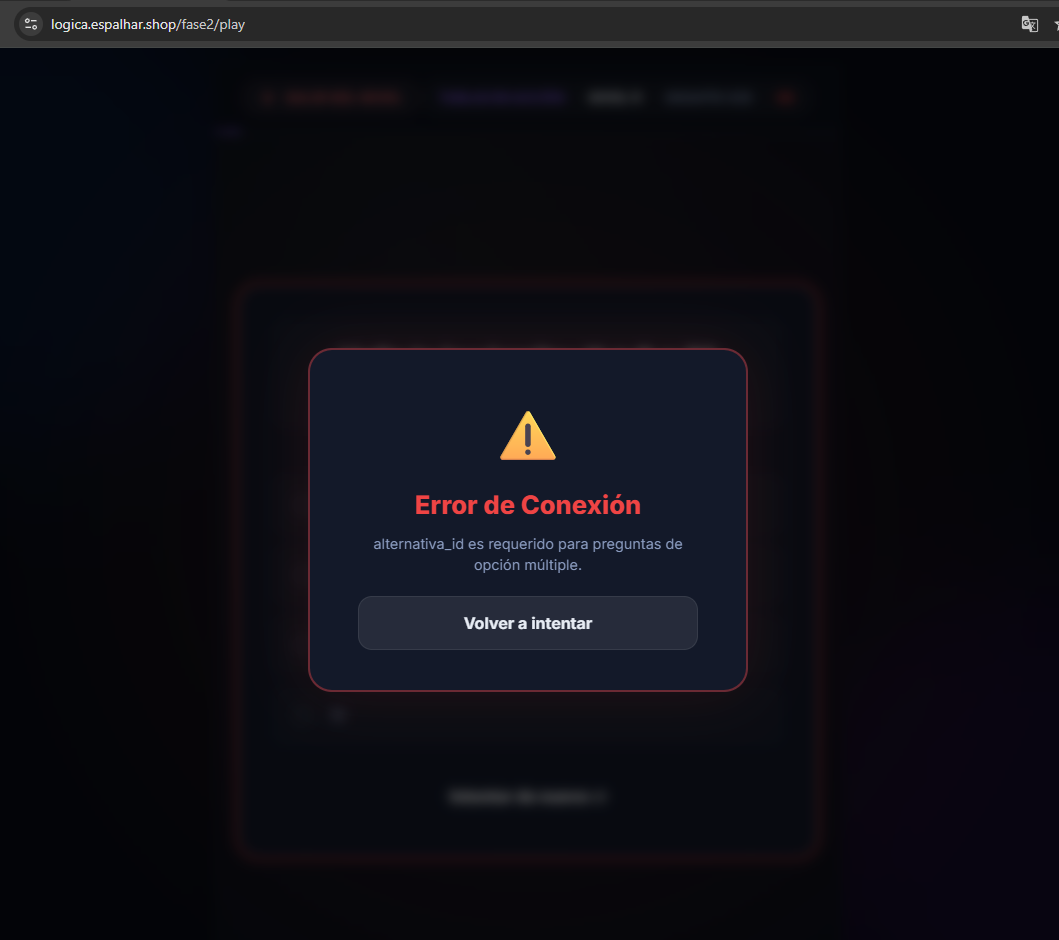
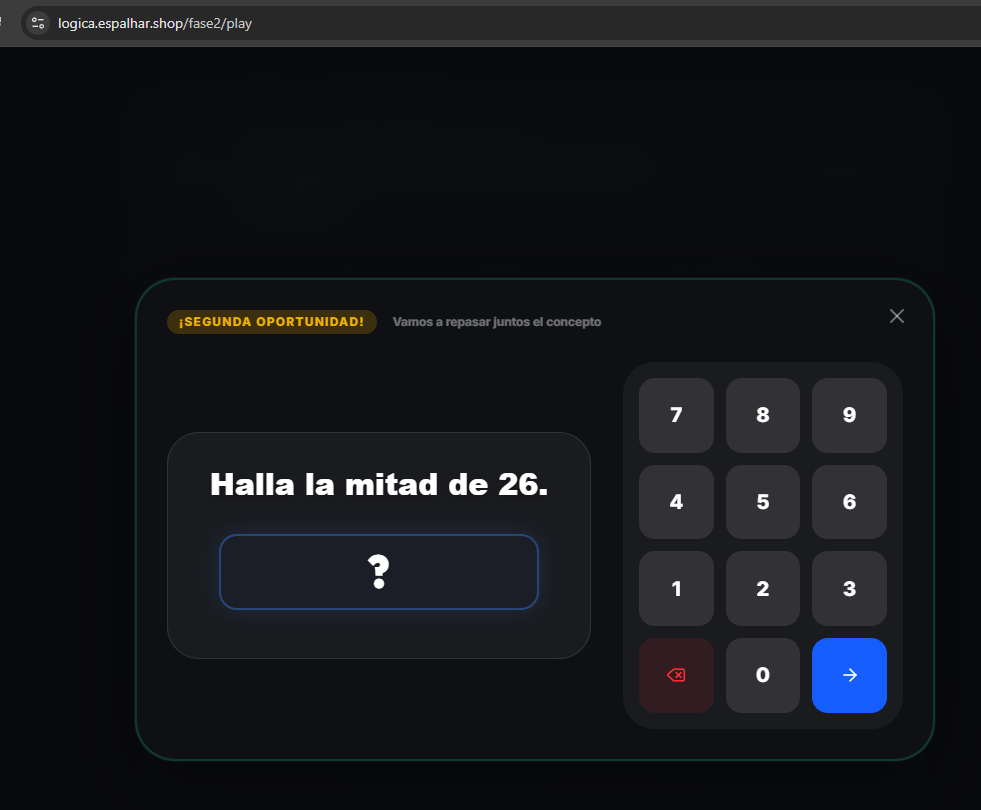
correcion bug pantalla blancoi

diff --git a/LogicaMath/frontend/components/fase2/Fase2GameScreen.tsx b/LogicaMath/frontend/components/fase2/Fase2GameScreen.tsx
@@ -231,6 +231,7 @@ const Fase2GameScreen: React.FC<Props> = ({ moduloId, nivelId, onComplete, onBac
       if (data.datos_numericos?.es_espejo) {
         setMirrorPregunta(data);
         setShowMirrorModal(true);
+        setPregunta(data); // <-- FIX: Set it to data so the background UI renders behind the modal
         setLoading(false);
         return;
       }
@@ -547,7 +548,7 @@ const Fase2GameScreen: React.FC<Props> = ({ moduloId, nivelId, onComplete, onBac
                 {/* Contenido adaptativo */}
                 {pregunta.tipo_pregunta === 'respuesta_numerica' && (
                   <div className="flex flex-col h-full justify-between">
-                    <div className="f2-question-text-box"><div className={pregunta.enunciado.length < 25 ? "f2-question-text short" : "f2-question-text"}>{pregunta.enunciado}</div></div>
+                    <div className="f2-question-text-box"><div className={(pregunta.enunciado || '').length < 25 ? "f2-question-text short" : "f2-question-text"}>{pregunta.enunciado}</div></div>
                     <div className="f2-numeric-input-wrap">
                       <div className={`f2-custom-input-box ${feedback.visible ? (feedback.esCorrecta ? 'correct' : 'incorrect') : 'focused'}`} onClick={() => inputRef.current?.focus()}>
                         <input ref={inputRef} type="text" value={respuesta} onChange={e => !feedback.visible && /^[0-9,\-]*$/.test(e.target.value) && setRespuesta(e.target.value)} onKeyDown={handleKeyDown} className="f2-hidden-input" autoFocus autoComplete="off" inputMode="none" />